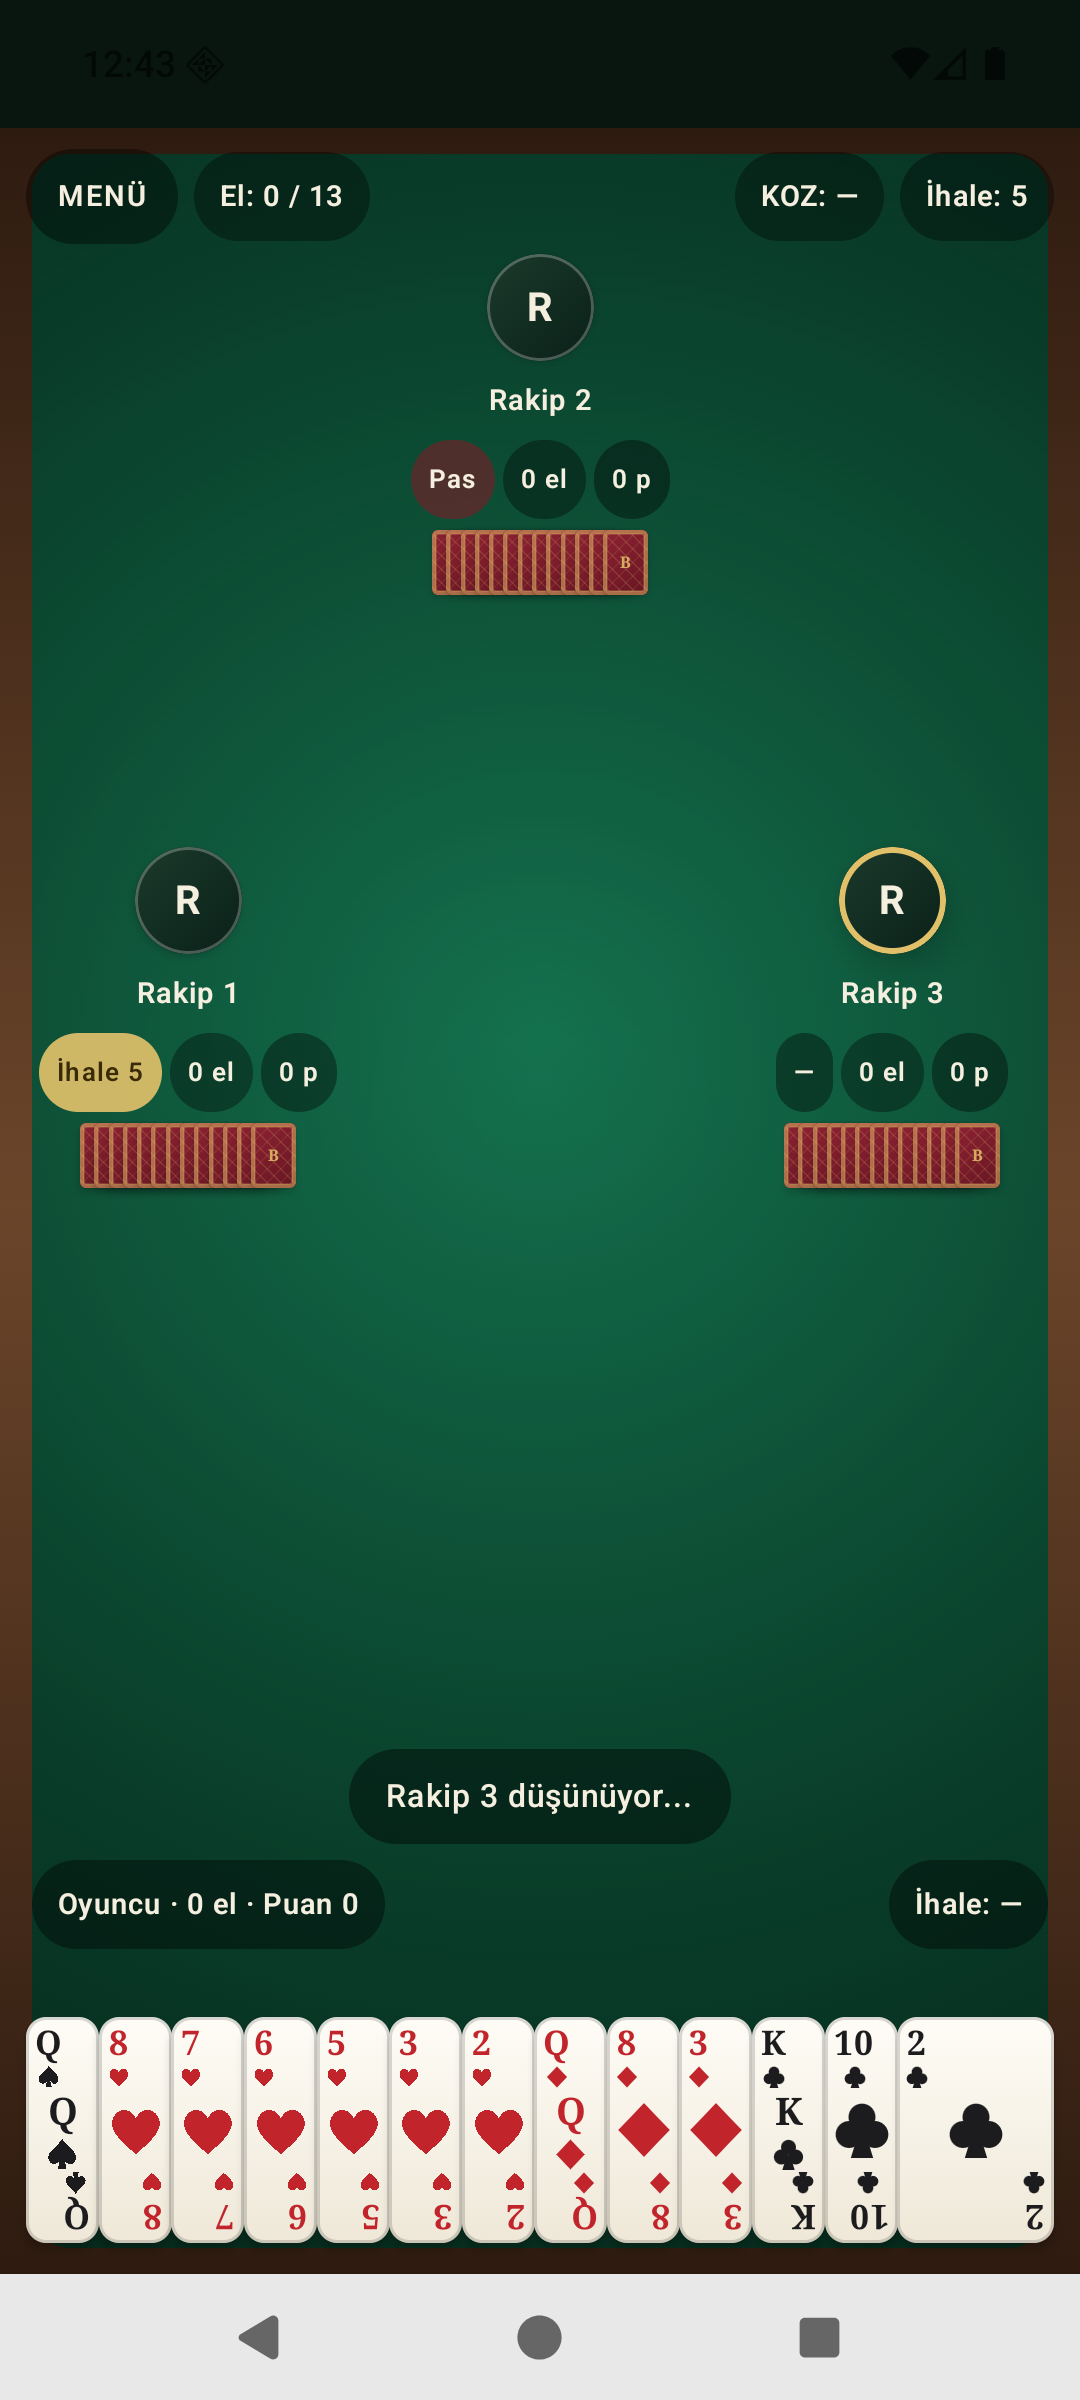
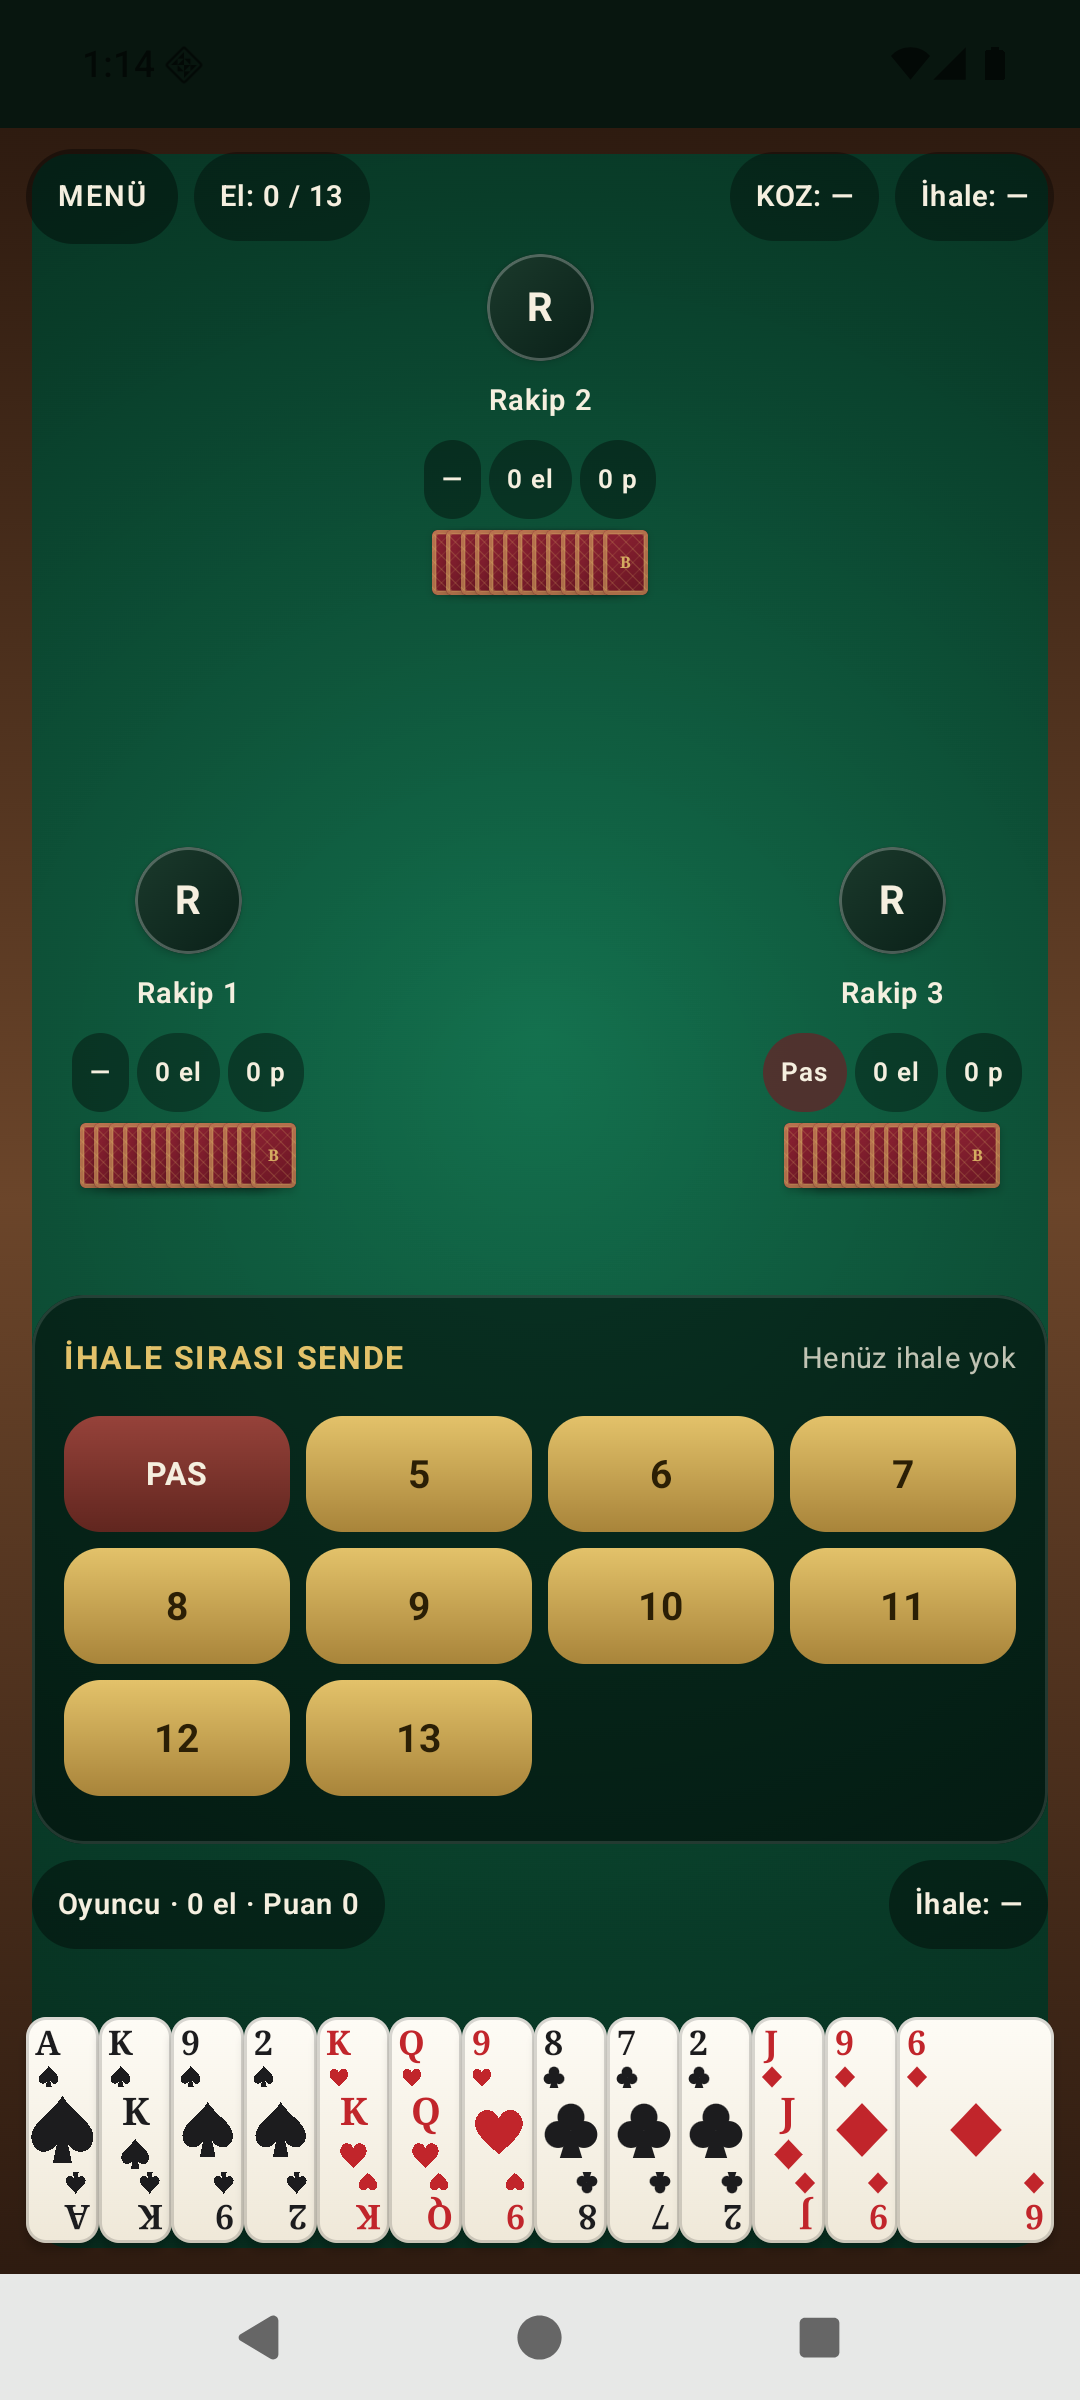
El kartlari siyah-kirmizi donusumlu renk sirasina gore diziliyor (Maca, Kupa, Sinek, Karo)

diff --git a/app/src/main/java/com/batak/turkce/ui/screens/HowToPlayScreen.kt b/app/src/main/java/com/batak/turkce/ui/screens/HowToPlayScreen.kt
@@ -31,7 +31,8 @@ fun HowToPlayScreen(vm: GameViewModel, onBack: () -> Unit) {
                 "Renkler: Maça, Kupa, Karo, Sinek. Kupa ve Karo kırmızı, Maça ve Sinek siyahtır. " +
                 "Koz dışında hiçbir renk diğerinden üstün değildir.\n\n" +
                 "Eldeki kartlar otomatik olarak renklerine göre gruplanır ve her renk kendi içinde " +
-                "büyükten küçüğe sıralanır (Maça, Kupa, Karo, Sinek)."
+                "büyükten küçüğe sıralanır. Renk grupları siyah–kırmızı dönüşümlü dizilir " +
+                "(Maça, Kupa, Sinek, Karo)."
         )
         Spacer(Modifier.height(12.dp))
         HelpSection(
@@ -60,8 +61,12 @@ fun HowToPlayScreen(vm: GameViewModel, onBack: () -> Unit) {
                 "• Kart yükseltme zorunluluğu: Oynanan en yüksek takım rengi kartından " +
                 "daha büyük bir kartın varsa, onu oynamak zorundasın. " +
                 "Örneğin masaya 9 kupa atıldıysa ve elinde K kupa varsa K kupa oynamalısın.\n" +
-                "• Elinde o renk hiç yoksa istediği kartı oynayabilir: koz atabilir veya " +
-                "başka renk atabilir. Koz atma zorunluluğu yoktur.\n\n" +
+                "• Elinde o renk hiç yoksa:\n" +
+                "   – Masaya henüz koz atılmamışsa koz atamazsın; kozun önce ortaya çıkması gerekir. " +
+                "Bu durumda başka bir renkten kart atarsın.\n" +
+                "   – Masaya koz atılmışsa koz atabilirsin; fakat elinde daha büyük bir koz varsa " +
+                "onu atmak zorundasın (kozu büyütme zorunluluğu).\n" +
+                "   – Elin tamamen kozdan oluşuyorsa koz oynayabilirsin.\n\n" +
                 "Eli kazanan: elde koz varsa en yüksek koz, yoksa başlangıç rengindeki en yüksek karttır."
         )
         Spacer(Modifier.height(12.dp))

diff --git a/app/src/main/java/com/batak/turkce/model/Models.kt b/app/src/main/java/com/batak/turkce/model/Models.kt
@@ -10,7 +10,7 @@ enum class Suit(val labelTr: String, val symbol: String, val isRed: Boolean) {
     CLUBS("Sinek", "♣", false);
 
     companion object {
-        val displayOrder: List<Suit> = listOf(SPADES, HEARTS, DIAMONDS, CLUBS)
+        val displayOrder: List<Suit> = listOf(SPADES, HEARTS, CLUBS, DIAMONDS)
     }
 }
 
